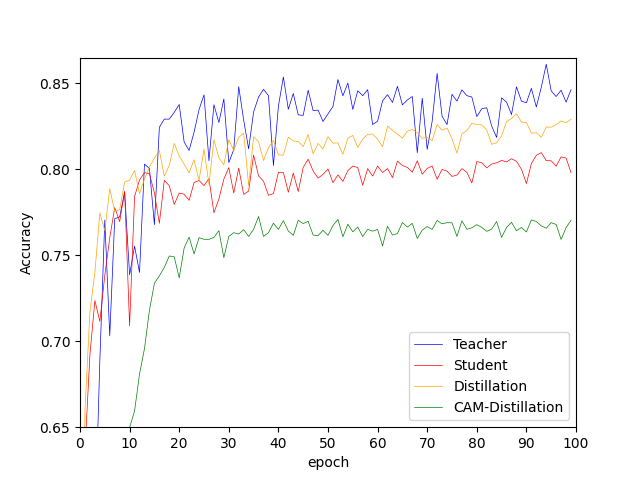
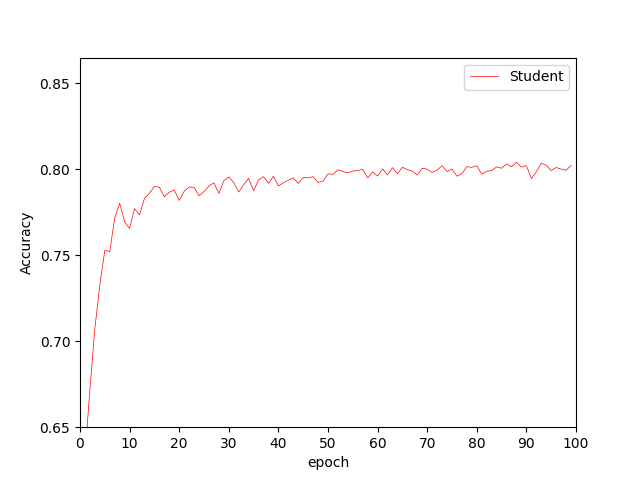
second commit

diff --git a/result.py b/result.py
@@ -6,13 +6,13 @@ data_name = 'cifar10'
 epoch = 100
 batch_size = 128
 num_class = 10
-iteration = 1
+iteration = 5
 
 def load_hist(path):
     dic = {}
     
     # load history
-    for i in range(1):
+    for i in range(iteration):
         with open(path + str(i) + '.pickle', mode='rb') as f:
             dic[i] = pickle.load(f)   
             
@@ -21,7 +21,7 @@ def load_hist(path):
     val_loss = np.zeros(len(dic[i]['val_loss']))
     val_acc = np.zeros(len(dic[i]['val_accuracy']))
     
-    for i in range(1):
+    for i in range(iteration):
         train_loss += np.array(dic[i]['loss'])
         train_acc += np.array(dic[i]['accuracy'])
         val_loss += np.array(dic[i]['val_loss'])
@@ -41,26 +41,25 @@ student_st_path = './history/student_st/'
 student_cam_path = './history/student_cam/'
 
 s_train_loss, s_train_acc, s_val_loss, s_val_acc = load_hist(student_path)
-t_train_loss, t_train_acc, t_val_loss, t_val_acc = load_hist(teacher_path)
-st_train_loss, st_train_acc, st_val_loss, st_val_acc = load_hist(student_st_path)
-cam_train_loss, cam_train_acc, cam_val_loss, cam_val_acc = load_hist(student_cam_path)
-
-# s_val_acc /= 100
-# t_val_acc /= 100
-# st_val_acc /= 100
+# t_train_loss, t_train_acc, t_val_loss, t_val_acc = load_hist(teacher_path)
+# st_train_loss, st_train_acc, st_val_loss, st_val_acc = load_hist(student_st_path)
+# cam_train_loss, cam_train_acc, cam_val_loss, cam_val_acc = load_hist(student_cam_path)
 
 x = np.arange(100)
 fig = plt.figure()
 fig.patch.set_facecolor('white')
 plt.xlabel('epoch')
 plt.ylabel('Accuracy')
-plt.plot(x, t_val_acc, label='Teacher', linewidth=0.5, color='blue')
+
 plt.plot(x, s_val_acc, label='Student', linewidth=0.5, color='red')
-plt.plot(x, st_val_acc, label='Distillation', linewidth=0.5, color='orange')
-plt.plot(x, cam_val_acc, label='CAM-Distillation', linewidth=0.5, color='green')
+# plt.plot(x, t_val_acc, label='Teacher', linewidth=0.5, color='blue')
+# plt.plot(x, st_val_acc, label='Distillation', linewidth=0.5, color='orange')
+# plt.plot(x, cam_val_acc, label='CAM-Distillation', linewidth=0.5, color='green')
+
 plt.xticks(np.arange(0, 110, 10))
 plt.yticks(np.arange(0.60, 0.90, 0.05))
 plt.xlim(0, 100)
 plt.ylim(0.65, 0.865)
+
 plt.legend()
 plt.savefig('./result.png')

diff --git a/train_student.py b/train_student.py
@@ -14,7 +14,7 @@ from src.kd_loss.st import SoftTargetLoss
 import pickle
 
 def main():
-    for i in range(1, 2):
+    for i in range(5):
         print(i)
         epochs = 100
         batch_size = 128
